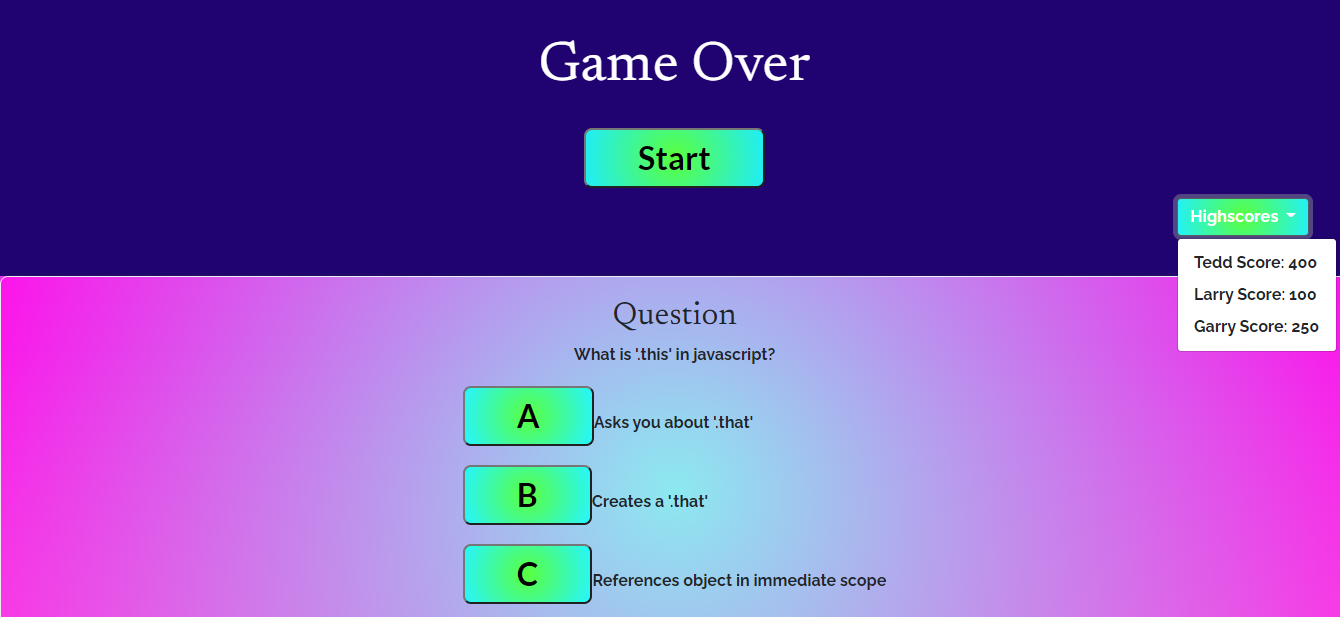
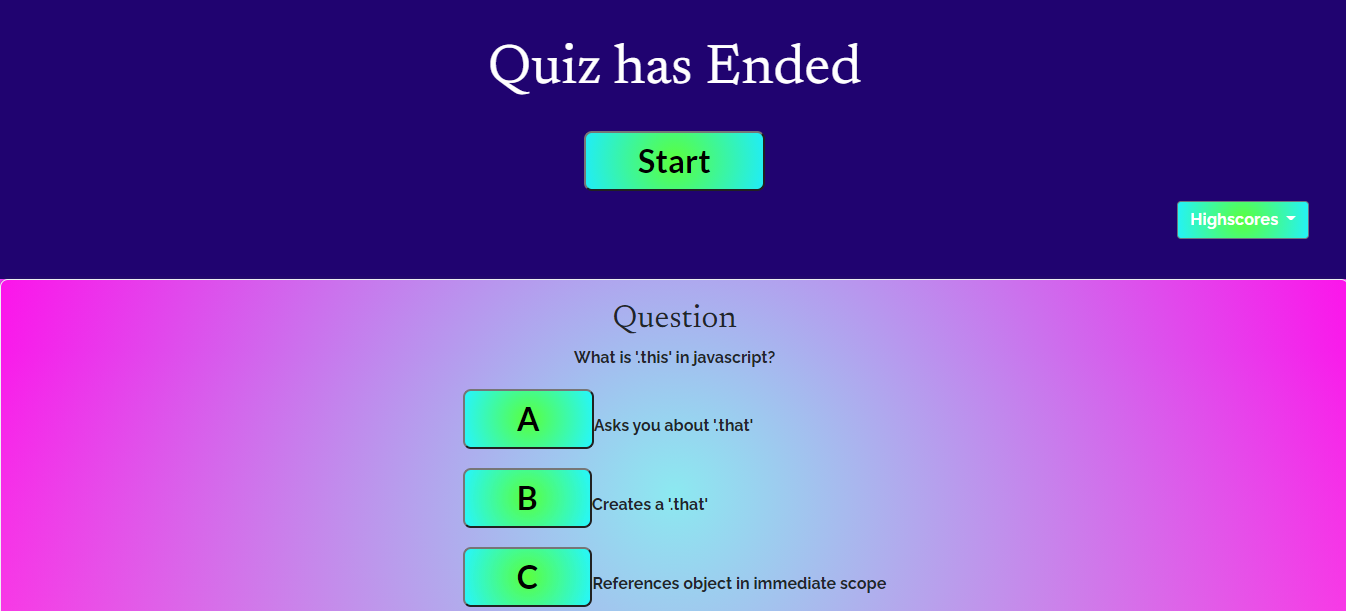
updated quiz over display and the readme screenshot

diff --git a/docs/script.js b/docs/script.js
@@ -89,7 +89,7 @@ function updateQA() {
 
 function end() {
     clearInterval(timer);
-    title.textContent = "Game Over";
+    title.textContent = "Quiz has Ended";
     var name = prompt("Your Name: ");
     nameScores = name + " Score: " + score + " ";
     
